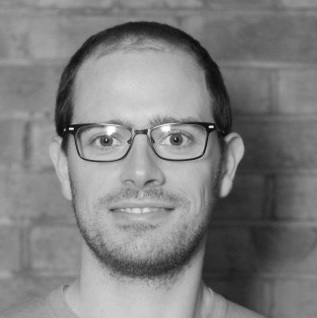
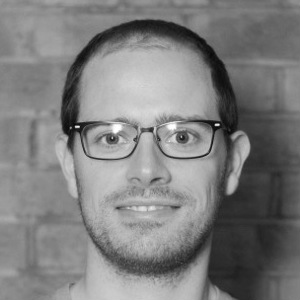
responsive team page #111

diff --git a/views/layout/default.html b/views/layout/default.html
@@ -67,10 +67,10 @@
           <ul class="pure-menu-list">
               <li class="pure-menu-item"><a href="/#offering" class="pure-menu-link">Offering</a></li>
               <li class="pure-menu-item"><a href="/#process" class="pure-menu-link">Process</a></li>
-              <li class="pure-menu-item"><a href="/values" class="pure-menu-link">Values</a></li>
               <li class="pure-menu-item"><a href="/#contact" class="pure-menu-link">Contact</a></li>
+              <li class="pure-menu-item"><a href="/values" class="pure-menu-link">Values</a></li>
+              <li class="pure-menu-item"><a href="/team" class="pure-menu-link">Team</a></li>
               <!-- TO BE ADDED WHEN THERE'S APPROPRIATE CONTENT -->
-              <!-- <li class="pure-menu-item"><a href="/team" class="pure-menu-link">Team</a></li> -->
               <!-- <li class="pure-menu-item"><a href="/blog" class="pure-menu-link">Blog</a></li>
               <li class="pure-menu-item"><a href="/portfolio" class="pure-menu-link">Portfolio</a></li> -->
           </ul>

diff --git a/css/dwyl.css b/css/dwyl.css
@@ -414,7 +414,7 @@ ol li {
       clear: both;
   }
     .member-image {
-        width: 50%;
+        width: 100%;
         padding: 0 3em;
         margin: 0 auto;
     }
@@ -423,19 +423,18 @@ ol li {
         max-width: 14em;
         border-radius: 50%;
         overflow: hidden;
+        margin: 0 auto;
+        display: block;
       }
-      /*.member-image img {
-        max-width: 100%;
-        border-radius: 50%;
-        overflow: hidden;
-      }*/
     .member-title {
       margin: 0 auto;
       text-align: center;
+      padding: 1em;
     }
     .member-title h2 {
       margin-top: 0;
       font-size: 1em;
+      text-align: center;
     }
 
 /*
